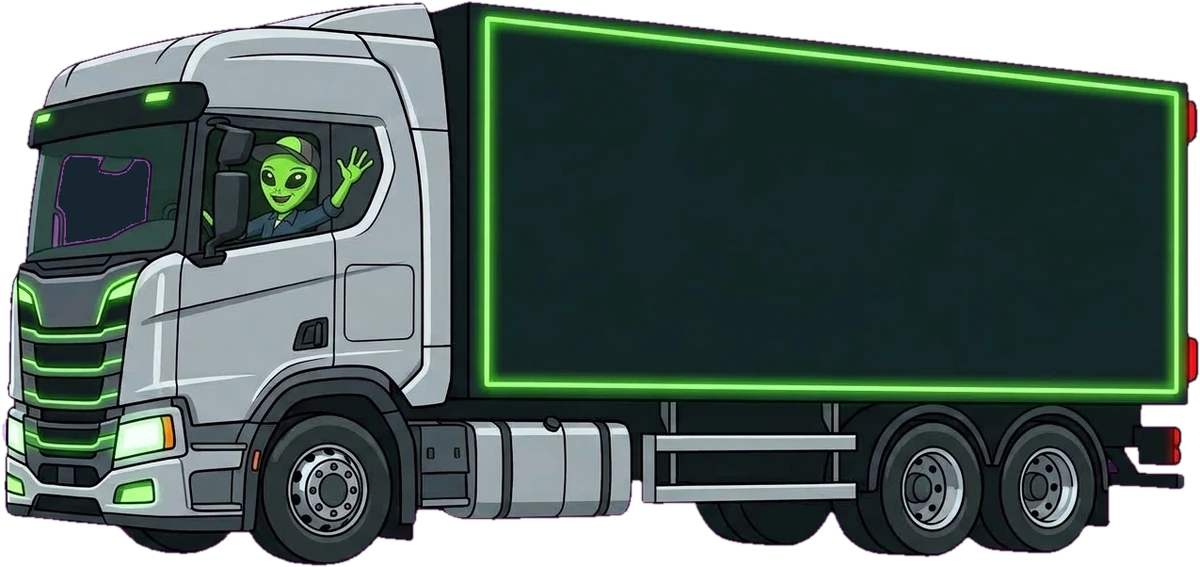
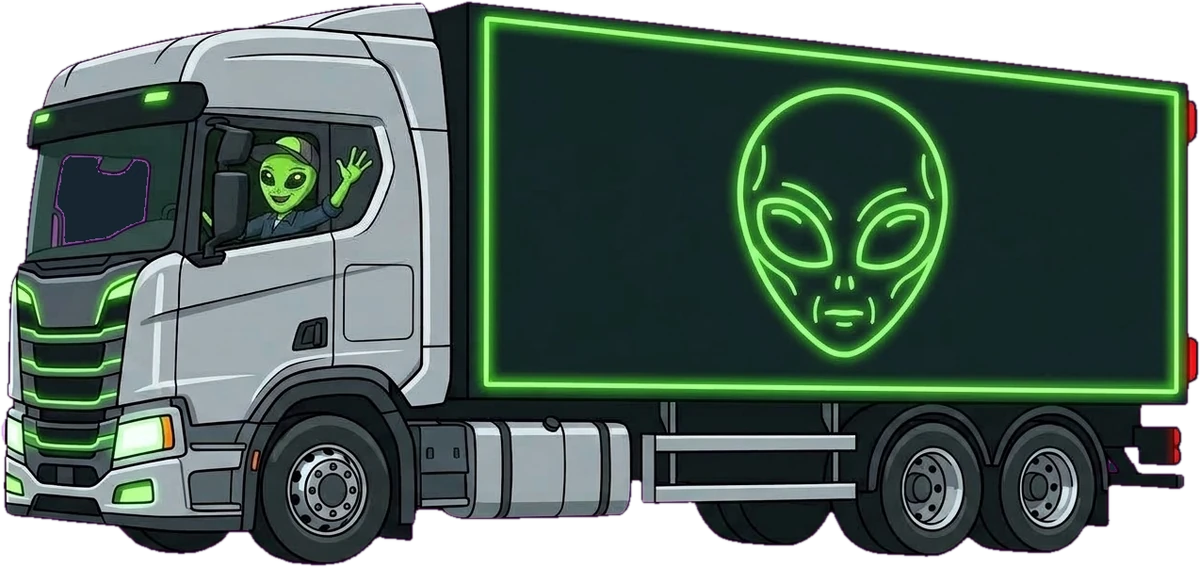
feat(onboarding): pedidos do Beto: copy das telas 1-3, ET no bau e coruja no radar
Kicker 'GPS' (nao repetir 'trecho'), frases curtas, 'sem multas' no radar.
Sprites heroi/acena com a cara do alien em neon no bau (edicao no Gemini;
acena composto a partir do heroi novo + so a janela, bau identico).
Coruja pousada no poste do radar: pisca a cada ~3 s e olha pro caminhao.

diff --git a/lib/widgets/onboarding/cena_onboarding.dart b/lib/widgets/onboarding/cena_onboarding.dart
@@ -518,6 +518,7 @@ class _FundoPainter extends CustomPainter {
     final lente = caixa.centerLeft + Offset(caixa.width * .3, 0);
     c.drawCircle(lente, caixa.height * .22, Paint()..color = const Color(0xFF05080D));
     c.drawCircle(lente, caixa.height * .22, _linha(kNeon, 1.5));
+    _coruja(c, Offset(x, topo));
     // Seta no asfalto, no sentido do caminhão, um pouco antes do radar.
     final sx = x - g.w * .30, sy = g.h * .80;
     final comp = g.w * .12, alt = g.h * .035;
@@ -527,6 +528,41 @@ class _FundoPainter extends CustomPainter {
       ..lineTo(sx, sy + alt * .4)..close();
     c.drawPath(seta, _glow(kNeon, 6));
     c.drawPath(seta, Paint()..color = kNeon.withValues(alpha: .9));
+  }
+
+  /// Coruja pousada no topo do poste do radar (pedido do Beto, 25/09):
+  /// corpo em silhueta com fio neon, olhos grandes que piscam de vez em
+  /// quando e viram pro caminhão quando ele chega perto.
+  void _coruja(Canvas c, Offset poste) {
+    final r = g.w * .022; // raio do corpo
+    final centro = poste + Offset(0, -r * 1.3);
+    final corpo = Path()..addOval(Rect.fromCenter(center: centro, width: r * 2, height: r * 2.6));
+    c.drawPath(corpo, Paint()..color = const Color(0xFF0A1622));
+    _neon(c, corpo, w: 1.5);
+    // Orelhas.
+    final orelhas = Path()
+      ..moveTo(centro.dx - r * .8, centro.dy - r * .9)..lineTo(centro.dx - r * .6, centro.dy - r * 1.7)..lineTo(centro.dx - r * .2, centro.dy - r * 1.15)
+      ..moveTo(centro.dx + r * .8, centro.dy - r * .9)..lineTo(centro.dx + r * .6, centro.dy - r * 1.7)..lineTo(centro.dx + r * .2, centro.dy - r * 1.15);
+    c.drawPath(orelhas, Paint()..color = const Color(0xFF0A1622));
+    _neon(c, orelhas, w: 1.5);
+    // Olhos: piscam a cada ~3 s; a pupila segue o caminhão (que está à esquerda).
+    final pisca = !q.estatico && (q.tempo % 3.1) < .12;
+    final olhoY = centro.dy - r * .55;
+    for (final dx in [-r * .42, r * .42]) {
+      final o = Offset(centro.dx + dx, olhoY);
+      if (pisca) {
+        c.drawLine(o - Offset(r * .3, 0), o + Offset(r * .3, 0), _linha(kNeon, 2));
+        continue;
+      }
+      _luz(c, o, r * .7, kNeon, .35);
+      c.drawCircle(o, r * .34, Paint()..color = const Color(0xFFF2FFEA));
+      final perto = (g.x(q.x0) - g.heroDir) < g.w * .25;
+      c.drawCircle(o + Offset(perto ? -r * .1 : 0, r * .02), r * .16, Paint()..color = const Color(0xFF05080D));
+    }
+    // Bico.
+    final bico = Path()
+      ..moveTo(centro.dx - r * .12, centro.dy - r * .25)..lineTo(centro.dx + r * .12, centro.dy - r * .25)..lineTo(centro.dx, centro.dy)..close();
+    c.drawPath(bico, Paint()..color = _ambar);
   }
 
   // ── cena 4: praça de pedágio com cancela que sobe ───────────────────────

diff --git a/lib/widgets/onboarding/onboarding_logic.dart b/lib/widgets/onboarding/onboarding_logic.dart
@@ -14,14 +14,16 @@ class TelaOnboarding {
   const TelaOnboarding(this.kicker, this.titulo, this.texto, this.cena);
 }
 
-/// Copy aprovada com o Pedro em 24/09/2026 (spec 2026-09-24-onboarding-design).
+/// Copy aprovada com o Pedro em 24/09/2026 (spec 2026-09-24-onboarding-design);
+/// telas 1-3 revisadas pelo Beto em 25/09 (kicker "GPS" pra não repetir
+/// "trecho", frases mais curtas e "sem multas" no radar).
 const kTelasOnboarding = [
-  TelaOnboarding('No Trecho', 'Feito pra quem vive no trecho.',
-      'Rota, radar e pedágio pensados pro pesado.', Cena.abertura),
+  TelaOnboarding('GPS', 'Feito pra quem vive no trecho.',
+      'Rota, radar e pedágios pensados para o seu pesado.', Cena.abertura),
   TelaOnboarding('Rota', 'A rota que cabe no seu caminhão.',
-      'Altura, peso e eixos decidem o caminho, não o carro de passeio.', Cena.rota),
+      'Altura, peso e eixos definem o seu caminho.', Cena.rota),
   TelaOnboarding('Radar', 'Radar no seu sentido, no limite de pesado.',
-      'O da pista contrária não te incomoda.', Cena.radar),
+      'Sem multas, mais dinheiro no seu bolso.', Cena.radar),
   TelaOnboarding('Pedágio', 'Pedágio já com o valor do seu eixo.',
       'Antes de sair, você sabe quanto vai gastar.', Cena.pedagio),
   TelaOnboarding('S.O.S.', 'Pediu ajuda? Quem está perto recebe.',
